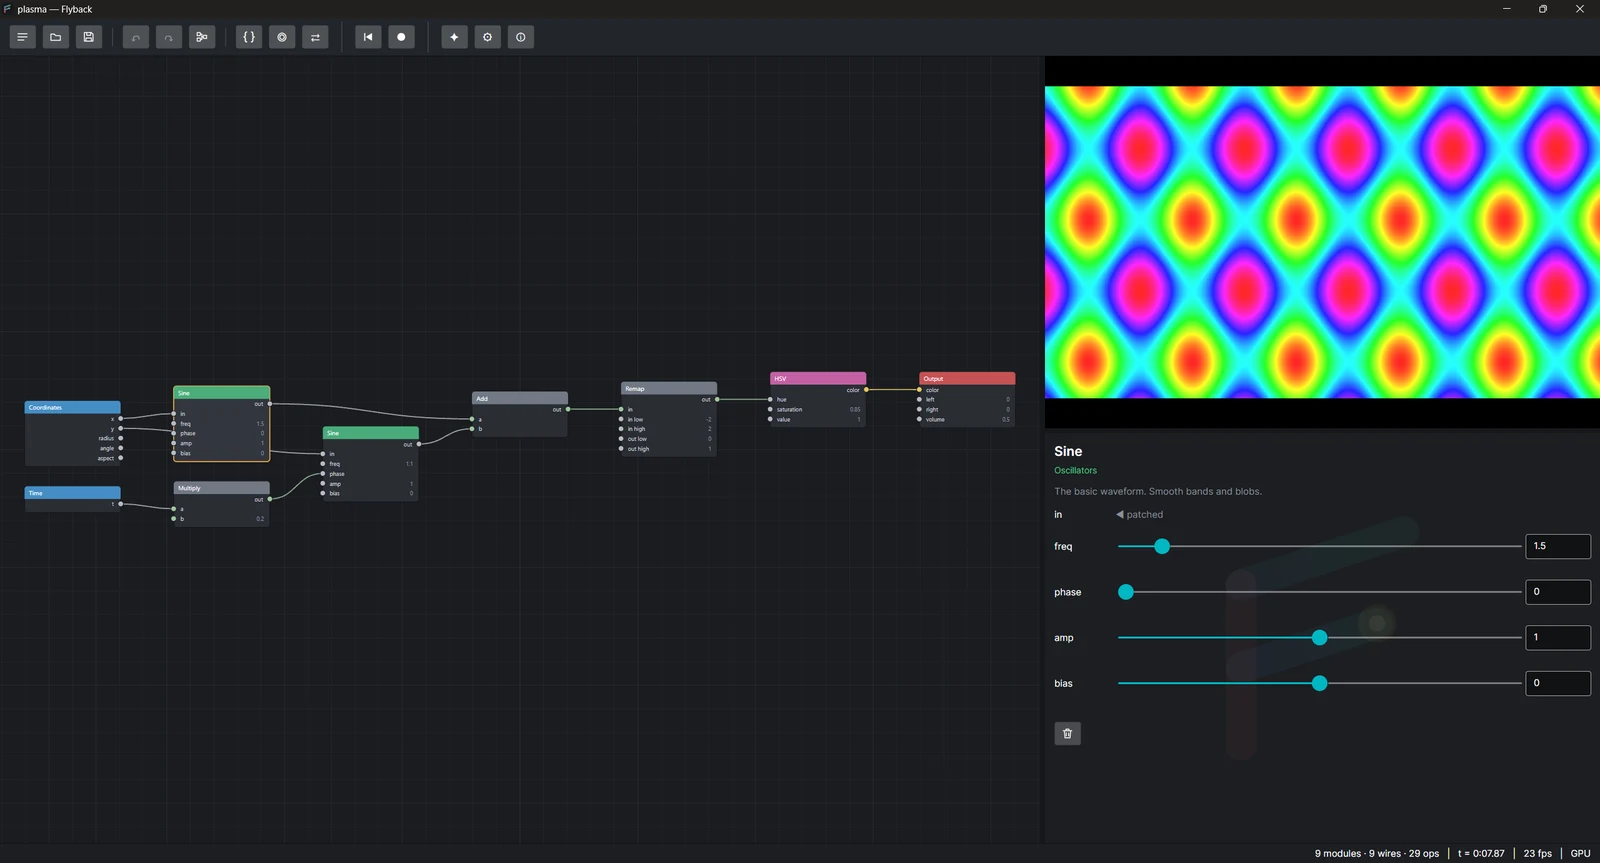
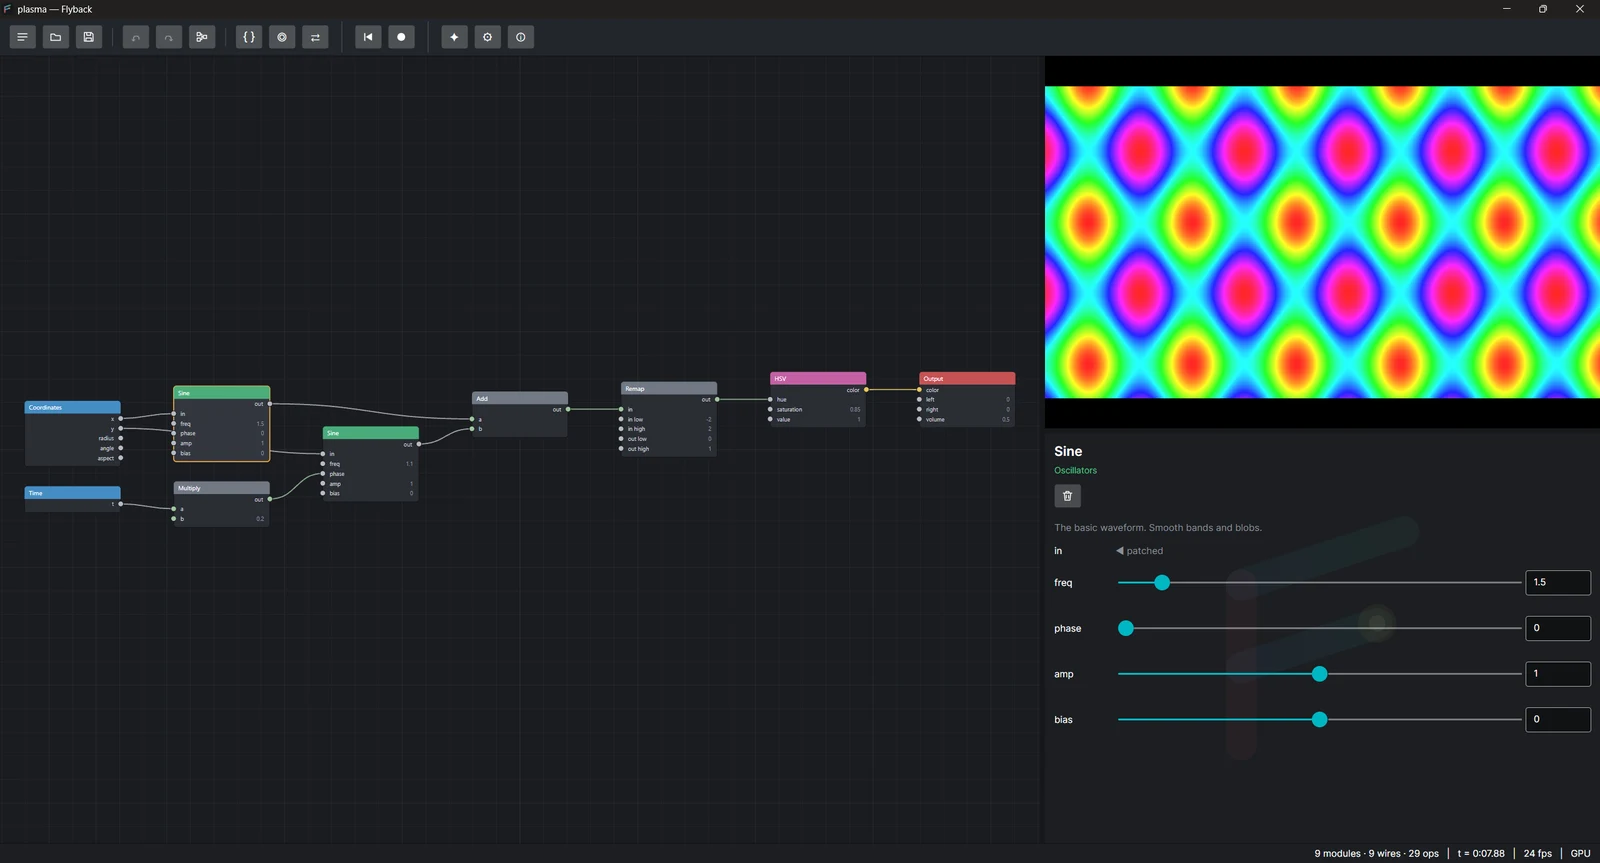
The panel's buttons sit under the name, above the description
They were at the foot of the panel, under a module's knobs or a box's
sockets. Both panels now remember the index under the name and insert the
row there once they know what is in it.

diff --git a/src/Flyback.App/MainWindow.Inspector.cs b/src/Flyback.App/MainWindow.Inspector.cs
@@ -591,6 +591,12 @@ public sealed partial class MainWindow
             Foreground = new SolidColorBrush(Colors.Accent(def.Category)),
         });
 
+        // What can be done to the module goes under its name, above the
+        // description — see ActionRow. Where it goes is settled here and what is
+        // in it at the end, because a knob does not decide whether a module can
+        // be grouped.
+        var above = inspector.Children.Count;
+
         if (!string.IsNullOrEmpty(def.Description))
             inspector.Children.Add(new TextBlock
             {
@@ -697,12 +703,12 @@ public sealed partial class MainWindow
             going > 1 ? $"Delete these {going} modules  (Delete)" : "Delete this module  (Delete)",
             editor.DeleteSelected);
 
-        inspector.Children.Add(actions);
+        inspector.Children.Insert(above, actions);
 
         Undescribed();
 
-        // Last, under everything that can be done to the module: it is a note
-        // about the assistant, and the one thing on the panel not about the patch.
+        // Last, under everything the module has: it is a note about the
+        // assistant, and the one thing on the panel not about the patch.
         void Undescribed()
         {
             if (!editor.Undescribed.Contains(def.TypeId)) return;
@@ -728,8 +734,8 @@ public sealed partial class MainWindow
     }
 
     /// <summary>
-    /// The strip of buttons at the foot of the panel: what can be done to what is
-    /// selected, each a glyph with the sentence in its tip.
+    /// The strip of buttons under the name at the top of the panel: what can be
+    /// done to what is selected, each a glyph with the sentence in its tip.
     /// </summary>
     /// <remarks>
     /// A row rather than a column, because a glyph is the width of a button and a
@@ -741,7 +747,7 @@ public sealed partial class MainWindow
     {
         Orientation = Orientation.Horizontal,
         Spacing = 6,
-        Margin = new Thickness(0, 16, 0, 0),
+        Margin = new Thickness(0, 2, 0, 6),
         HorizontalAlignment = HorizontalAlignment.Left,
     };
 
@@ -774,6 +780,9 @@ public sealed partial class MainWindow
             FontSize = Text.Small,
             Foreground = Text.Muted,
         });
+
+        // Under the name, above the description, where a module's own row sits.
+        var above = inspector.Children.Count;
 
         inspector.Children.Add(new TextBlock
         {
@@ -848,7 +857,7 @@ public sealed partial class MainWindow
             $"Delete the box and the {group.Members.Count} modules in it  (Delete)",
             editor.DeleteSelected);
 
-        inspector.Children.Add(actions);
+        inspector.Children.Insert(above, actions);
 
         // One heading and a row per socket, each named for the module and port
         // inside that it stands for — which is exactly what the box draws, so

diff --git a/tests/Flyback.App.Tests/Ui/GroupInspectorTests.cs b/tests/Flyback.App.Tests/Ui/GroupInspectorTests.cs
@@ -96,6 +96,20 @@ public class GroupInspectorTests : UiTest
     private static string Tip(MainWindow window, string name) =>
         ToolTip.GetTip(Button(window, name)) as string ?? string.Empty;
 
+    private static StackPanel Panel(MainWindow window) =>
+        All<StackPanel>(window).Single(p => p.Name == "inspector");
+
+    private static TextBlock Lined(MainWindow window, string text) =>
+        All<TextBlock>(window).First(t => t.Text == text);
+
+    private static TextBlock Description(MainWindow window) =>
+        All<TextBlock>(window).First(t => t.Text?.StartsWith("Several modules drawn as one") == true);
+
+    /// <summary>How far down the window the middle of a control is.</summary>
+    private static double Middle(MainWindow window, Visual control) =>
+        control.TranslatePoint(new Point(0, control.Bounds.Height / 2), window)?.Y
+        ?? throw new InvalidOperationException("the control is not in this window");
+
     [AvaloniaFact]
     public void The_panel_is_about_the_group_rather_than_a_module_inside_it()
     {
@@ -141,6 +155,21 @@ public class GroupInspectorTests : UiTest
         // The count the caption used to carry, now in the only place a glyph
         // can say anything.
         Tip(window, "delete-group").ShouldContain("2 modules");
+    }
+
+    /// <summary>
+    /// Under the name and above everything that describes what is selected: the
+    /// buttons are the first thing on the panel that can be pressed.
+    /// </summary>
+    [AvaloniaFact]
+    public void The_buttons_are_at_the_top_of_the_panel()
+    {
+        var window = Open(out _);
+        var row = Middle(window, Button(window, "delete-group"));
+
+        row.ShouldBeGreaterThan(Middle(window, Lined(window, "Group")), "under the name");
+        row.ShouldBeLessThan(Middle(window, Description(window)), "and above the description");
+        row.ShouldBeLessThan(Middle(window, Lined(window, "In")));
     }
 
     /// <summary>
@@ -267,6 +296,11 @@ public class GroupInspectorTests : UiTest
 
         Buttons(window).ShouldContain("open-groups");
         Tip(window, "open-groups").ShouldContain("2 boxes");
+
+        // A module's panel puts the row where the group's does: under the name,
+        // ahead of everything the module is made of.
+        Middle(window, Button(window, "open-groups"))
+            .ShouldBeLessThan(Middle(window, All<Slider>(Panel(window)).First()));
 
         Press(window, "open-groups");
 

diff --git a/docs/adr/0111-the-panels-actions-are-a-row-of-glyphs.md b/docs/adr/0111-the-panels-actions-are-a-row-of-glyphs.md
@@ -24,10 +24,19 @@ the boxes the selection touches. None of that fits on a button without words.
 own `Drawn` helper.** Same size, same padding, same named-and-tipped shape —
 `Drawn(name, icon, tip)` was already there and needed nothing.
 
-**They sit in one horizontal `ActionRow` at the foot of the panel**, rather
-than one to a line. A glyph is the width of a button, so a column of them
-would leave the panel empty beside it. Grouping comes first and deleting last,
-so the destructive button is at the far end of the row.
+**They sit in one horizontal `ActionRow` under the name, above the
+description**, rather than one to a line at the foot of the panel. A glyph is
+the width of a button, so a column of them would leave the panel empty beside
+it; at the top they are reached without reading past a module's description and
+knobs or a box's sockets, which is what the panel is mostly made of. Grouping
+comes first and deleting last, so the destructive button is at the far end of
+the row.
+
+**Where the row goes is settled before its buttons are decided.** Both panels
+remember the index under the name — a module's after its category line, a
+group's after `Group · 3 modules` — and insert the row there once they know
+what is in it. A knob does not decide whether a module can be grouped, so the
+two cannot be built in one pass.
 
 **The counts move into the tips**, which is the only place a button without
 words can say anything: "Delete these 3 modules  (Delete)", "Open the 2 boxes
@@ -56,6 +65,10 @@ made for `record`.
 **The open button still turns round.** It is `open-group` with one glyph while
 the box is shut and `close-group` with the other while it is open, so what a
 test sees changes with the box, as the caption used to.
+
+**A module's description starts one row further down**, and so do its knobs
+and a box's sockets. The row is four buttons at its widest, so what it costs
+the panel is one line.
 
 **Two site screenshots were retaken**, `plasma-inspector.webp` and
 `plasma-code.webp`, which both showed `Delete module` under a module's knobs.

diff --git a/CHANGELOG.md b/CHANGELOG.md
@@ -63,7 +63,7 @@
 ### Canvas and interface
 - Ctrl+Shift+L, or Ctrl+click on the Tidy button, lays out only the selected modules and leaves the rest of the patch where it is.
 - A toolbar button swaps the preview and the canvas, for a bigger picture while you patch.
-- The buttons at the foot of the module panel are icons rather than words.
+- The module panel's buttons are icons, in a row under the name.
 - Unsaved work survives a crash: the next start offers to restore it.
 
 ### Performance
